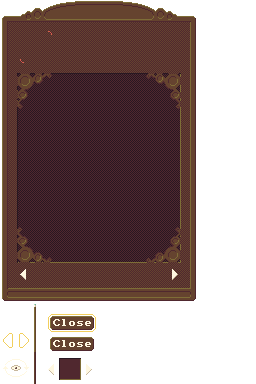
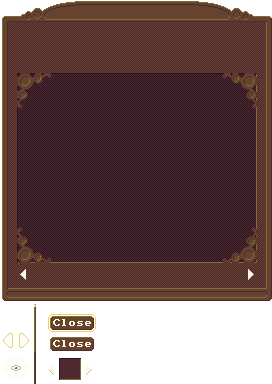
update trophy state layout

diff --git a/samples/golf/src/golf/TrophyState.cpp b/samples/golf/src/golf/TrophyState.cpp
@@ -39,6 +39,7 @@ source distribution.
 
 #include <crogine/core/Window.hpp>
 #include <crogine/core/GameController.hpp>
+#include <crogine/core/SysTime.hpp>
 #include <crogine/graphics/Image.hpp>
 #include <crogine/graphics/SpriteSheet.hpp>
 #include <crogine/gui/Gui.hpp>
@@ -76,12 +77,14 @@ namespace
 TrophyState::TrophyState(cro::StateStack& ss, cro::State::Context ctx, SharedStateData& sd)
     : cro::State    (ss, ctx),
     m_scene         (ctx.appInstance.getMessageBus()),
+    m_trophyScene   (ctx.appInstance.getMessageBus()),
     m_sharedData    (sd),
     m_trophyIndex   (1),
     m_viewScale     (2.f)
 {
     ctx.mainWindow.setMouseCaptured(false);
 
+    buildTrophyScene();
     buildScene();
 }
 
@@ -126,22 +129,29 @@ bool TrophyState::handleEvent(const cro::Event& evt)
 
     m_scene.getSystem<cro::UISystem>()->handleEvent(evt);
     m_scene.forwardEvent(evt);
+    m_trophyScene.forwardEvent(evt);
     return false;
 }
 
 void TrophyState::handleMessage(const cro::Message& msg)
 {
     m_scene.forwardMessage(msg);
+    m_trophyScene.forwardMessage(msg);
 }
 
 bool TrophyState::simulate(float dt)
 {
     m_scene.simulate(dt);
+    m_trophyScene.simulate(dt);
     return true;
 }
 
 void TrophyState::render()
 {
+    m_trophyTexture.clear(cro::Colour::AliceBlue);
+    m_trophyScene.render();
+    m_trophyTexture.display();
+
     m_scene.render();
 }
 
@@ -283,20 +293,27 @@ void TrophyState::buildScene()
     backgroundEnt.getComponent<cro::Transform>().addChild(titleEnt.getComponent<cro::Transform>());
 
     auto descEnt = m_scene.createEntity();
-    descEnt.addComponent<cro::Transform>().setPosition({ 58.f, 266.f, 0.1f });
+    descEnt.addComponent<cro::Transform>().setPosition({ 72.f, 266.f, 0.1f });
     descEnt.addComponent<cro::Drawable2D>();
     descEnt.addComponent<cro::Text>(infoFont).setCharacterSize(InfoTextSize);
     descEnt.getComponent<cro::Text>().setFillColour(TextNormalColour);
     backgroundEnt.getComponent<cro::Transform>().addChild(descEnt.getComponent<cro::Transform>());
 
+    auto dateEnt = m_scene.createEntity();
+    dateEnt.addComponent<cro::Transform>().setPosition({ bgBounds.width / 2.f, 56.f, 0.2f });
+    dateEnt.addComponent<cro::Drawable2D>();
+    dateEnt.addComponent<cro::Text>(infoFont).setCharacterSize(InfoTextSize);
+    dateEnt.getComponent<cro::Text>().setFillColour(TextNormalColour);
+    backgroundEnt.getComponent<cro::Transform>().addChild(dateEnt.getComponent<cro::Transform>());
+
     auto iconEnt = m_scene.createEntity();
-    iconEnt.addComponent<cro::Transform>().setPosition({ 18.f, 238.f, 0.1f });
+    iconEnt.addComponent<cro::Transform>().setPosition({ 30.f, 238.f, 0.1f });
     iconEnt.getComponent<cro::Transform>().setScale(glm::vec2(0.5f));
     iconEnt.addComponent<cro::Drawable2D>();
     iconEnt.addComponent<cro::Sprite>().setTexture(m_sharedData.sharedResources->textures.get("assets/images/achievements.png"));
     backgroundEnt.getComponent<cro::Transform>().addChild(iconEnt.getComponent<cro::Transform>());
 
-    auto updateText = [&, titleEnt, descEnt, iconEnt]() mutable
+    auto updateText = [&, titleEnt, descEnt, dateEnt, iconEnt]() mutable
     {
         titleEnt.getComponent<cro::Text>().setString(AchievementLabels[m_trophyIndex]);
         centreText(titleEnt);
@@ -304,11 +321,16 @@ void TrophyState::buildScene()
         auto [descString, hidden] = AchievementDesc[m_trophyIndex];
         if (!hidden || Achievements::getAchievement(AchievementStrings[m_trophyIndex])->achieved)
         {
-            auto end = std::min(descString.length() - 1, std::size_t(26));
-            auto pos = descString.substr(0, end).find_last_of(' ');
-            if (pos != std::string::npos)
+            static constexpr std::size_t MaxLength = 32;
+
+            if (descString.length() >= MaxLength)
             {
-                descString[pos] = '\n';
+                auto end = std::min(descString.length() - 1, MaxLength);
+                auto pos = descString.substr(0, end).find_last_of(' ');
+                if (pos != std::string::npos)
+                {
+                    descString[pos] = '\n';
+                }
             }
         }
         else
@@ -316,6 +338,9 @@ void TrophyState::buildScene()
             descString = "????";
         }
         descEnt.getComponent<cro::Text>().setString(descString);
+
+        dateEnt.getComponent<cro::Text>().setString("Achieved: " + cro::SysTime::dateString());
+        centreText(dateEnt);
 
         static constexpr std::size_t RowCount = 5;
         auto x = m_trophyIndex % RowCount;
@@ -400,7 +425,7 @@ void TrophyState::buildScene()
 
     //arrow right
     entity = m_scene.createEntity();
-    entity.addComponent<cro::Transform>().setPosition({ 168.f, 19.f, 0.1f });
+    entity.addComponent<cro::Transform>().setPosition({ 244.f, 19.f, 0.1f });
     entity.addComponent<cro::AudioEmitter>() = m_menuSounds.getEmitter("switch");
     entity.addComponent<cro::Drawable2D>();
     entity.addComponent<cro::Sprite>() = spriteSheet.getSprite("arrow_right");
@@ -427,6 +452,16 @@ void TrophyState::buildScene()
                     updateText();
                 }
             });
+    backgroundEnt.getComponent<cro::Transform>().addChild(entity.getComponent<cro::Transform>());
+
+
+    //displays trophy render texture
+    entity = m_scene.createEntity();
+    entity.addComponent<cro::Transform>().setPosition({ bgBounds.width / 2.f, 138.f, 0.1f });
+    entity.addComponent<cro::Drawable2D>();
+    entity.addComponent<cro::Sprite>().setTexture(m_trophyTexture.getTexture());
+    bounds = entity.getComponent<cro::Sprite>().getTextureBounds();
+    entity.getComponent<cro::Transform>().setOrigin({ bounds.width / 2.f, bounds.height / 2.f });
     backgroundEnt.getComponent<cro::Transform>().addChild(entity.getComponent<cro::Transform>());
 
 
@@ -466,6 +501,13 @@ void TrophyState::buildScene()
     entity.addComponent<cro::Camera>().resizeCallback = updateView;
     m_scene.setActiveCamera(entity);
     updateView(entity.getComponent<cro::Camera>());
+}
+
+void TrophyState::buildTrophyScene()
+{
+
+
+    m_trophyTexture.create(200, 154);
 }
 
 void TrophyState::quitState()

diff --git a/samples/golf/src/golf/TrophyState.hpp b/samples/golf/src/golf/TrophyState.hpp
@@ -35,6 +35,8 @@ source distribution.
 #include <crogine/audio/AudioScape.hpp>
 #include <crogine/ecs/Scene.hpp>
 
+#include <crogine/graphics/RenderTexture.hpp>
+
 struct SharedStateData;
 
 class TrophyState final : public cro::State
@@ -55,6 +57,7 @@ public:
 private:
 
     cro::Scene m_scene;
+    cro::Scene m_trophyScene;
     SharedStateData& m_sharedData;
 
     cro::AudioScape m_menuSounds;
@@ -70,10 +73,12 @@ private:
     std::array<cro::Entity, AudioID::Count> m_audioEnts = {};
 
     std::size_t m_trophyIndex;
+    cro::RenderTexture m_trophyTexture;
 
     glm::vec2 m_viewScale;
     cro::Entity m_rootNode;
     void buildScene();
+    void buildTrophyScene();
 
     void quitState();
 };
